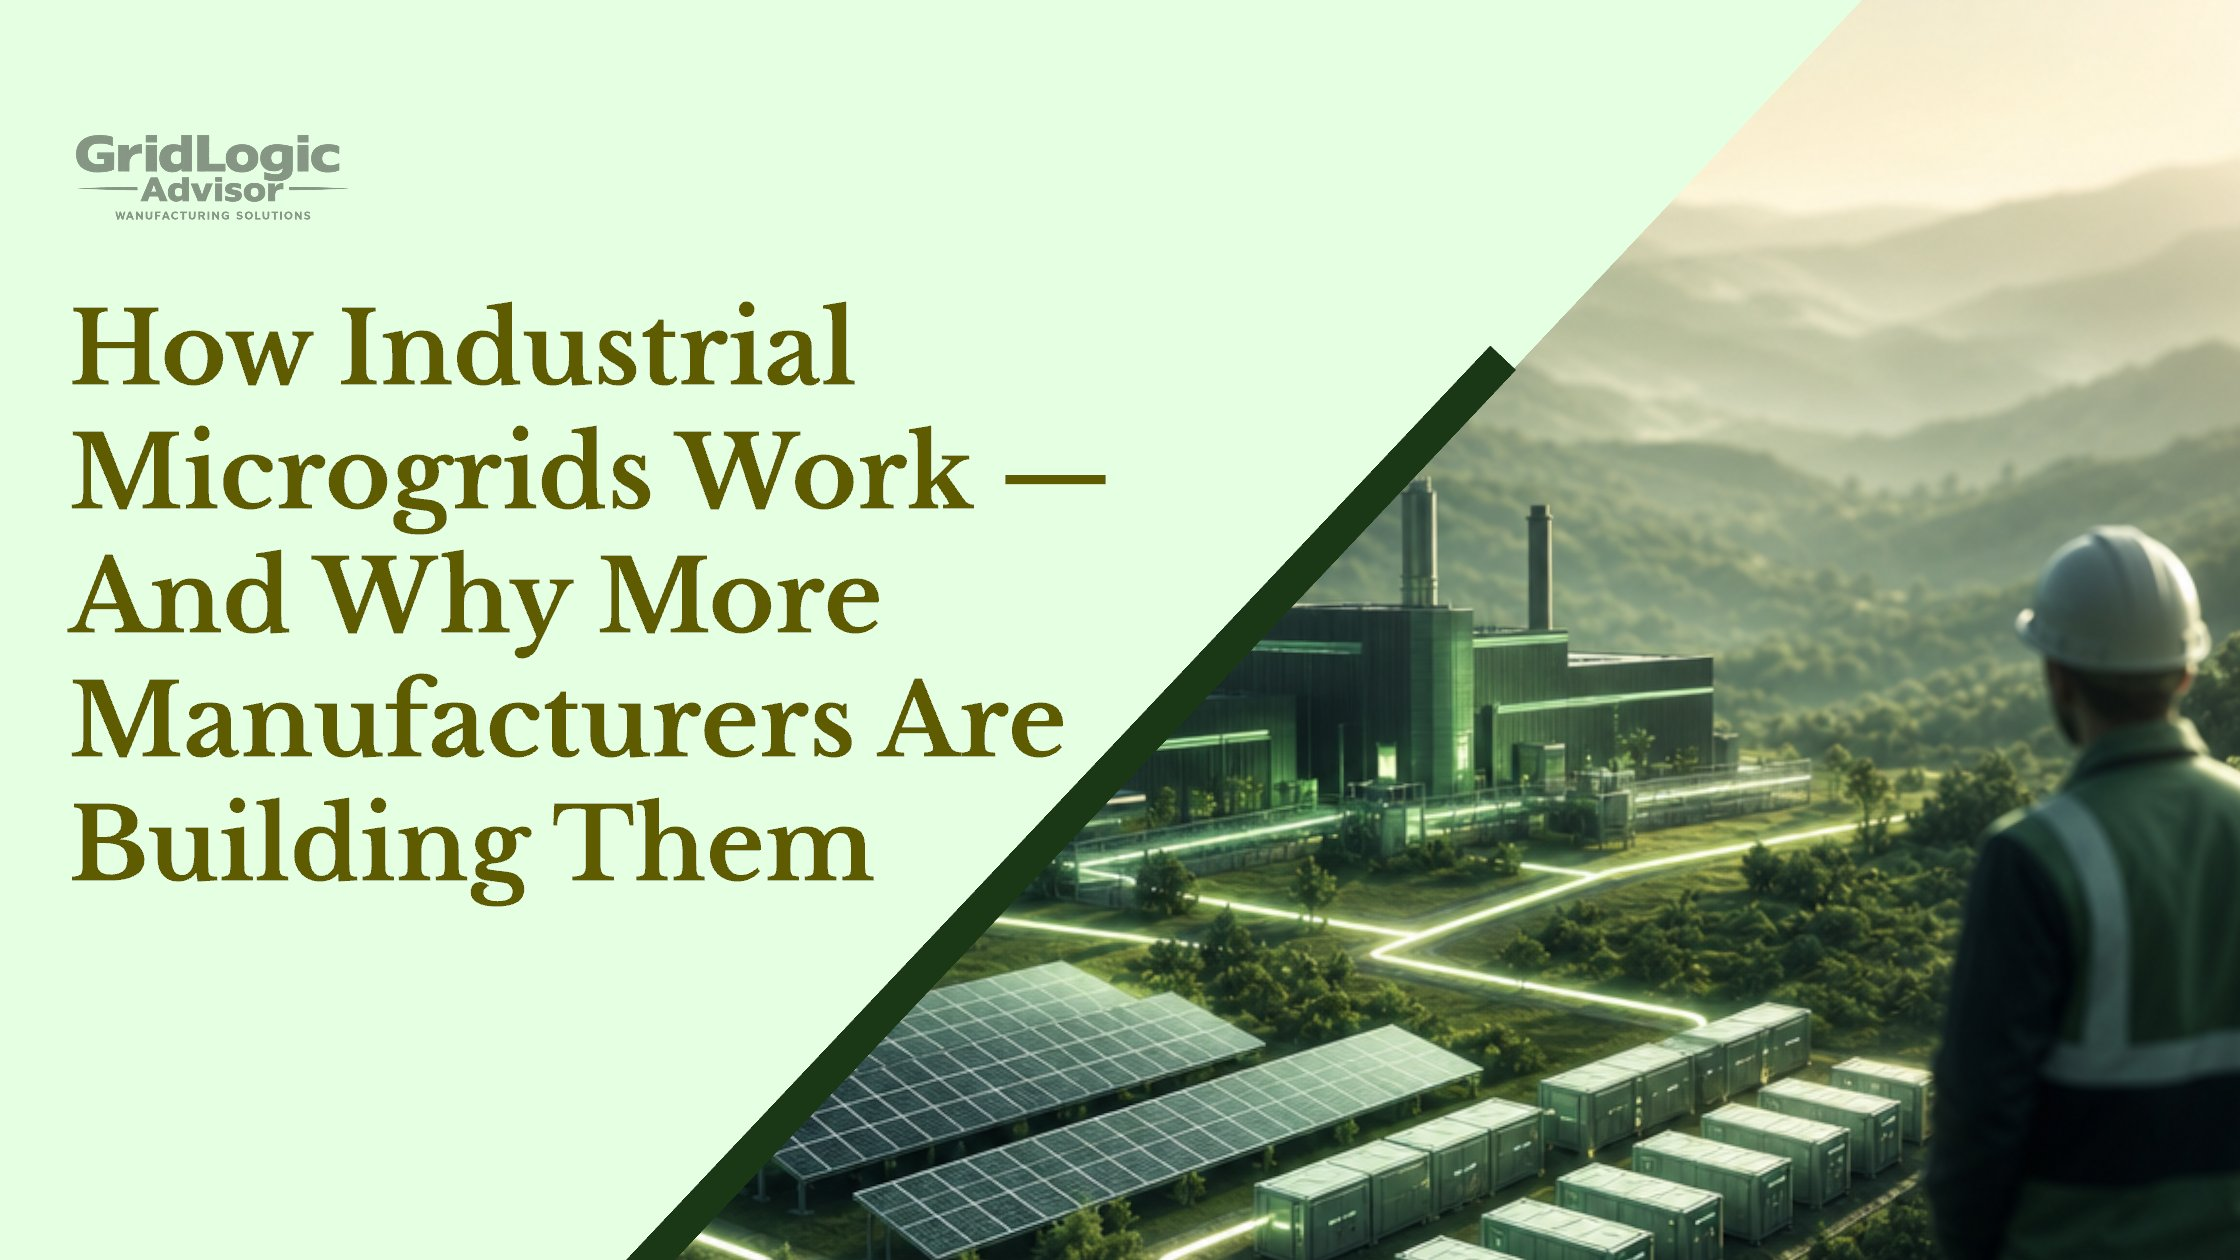
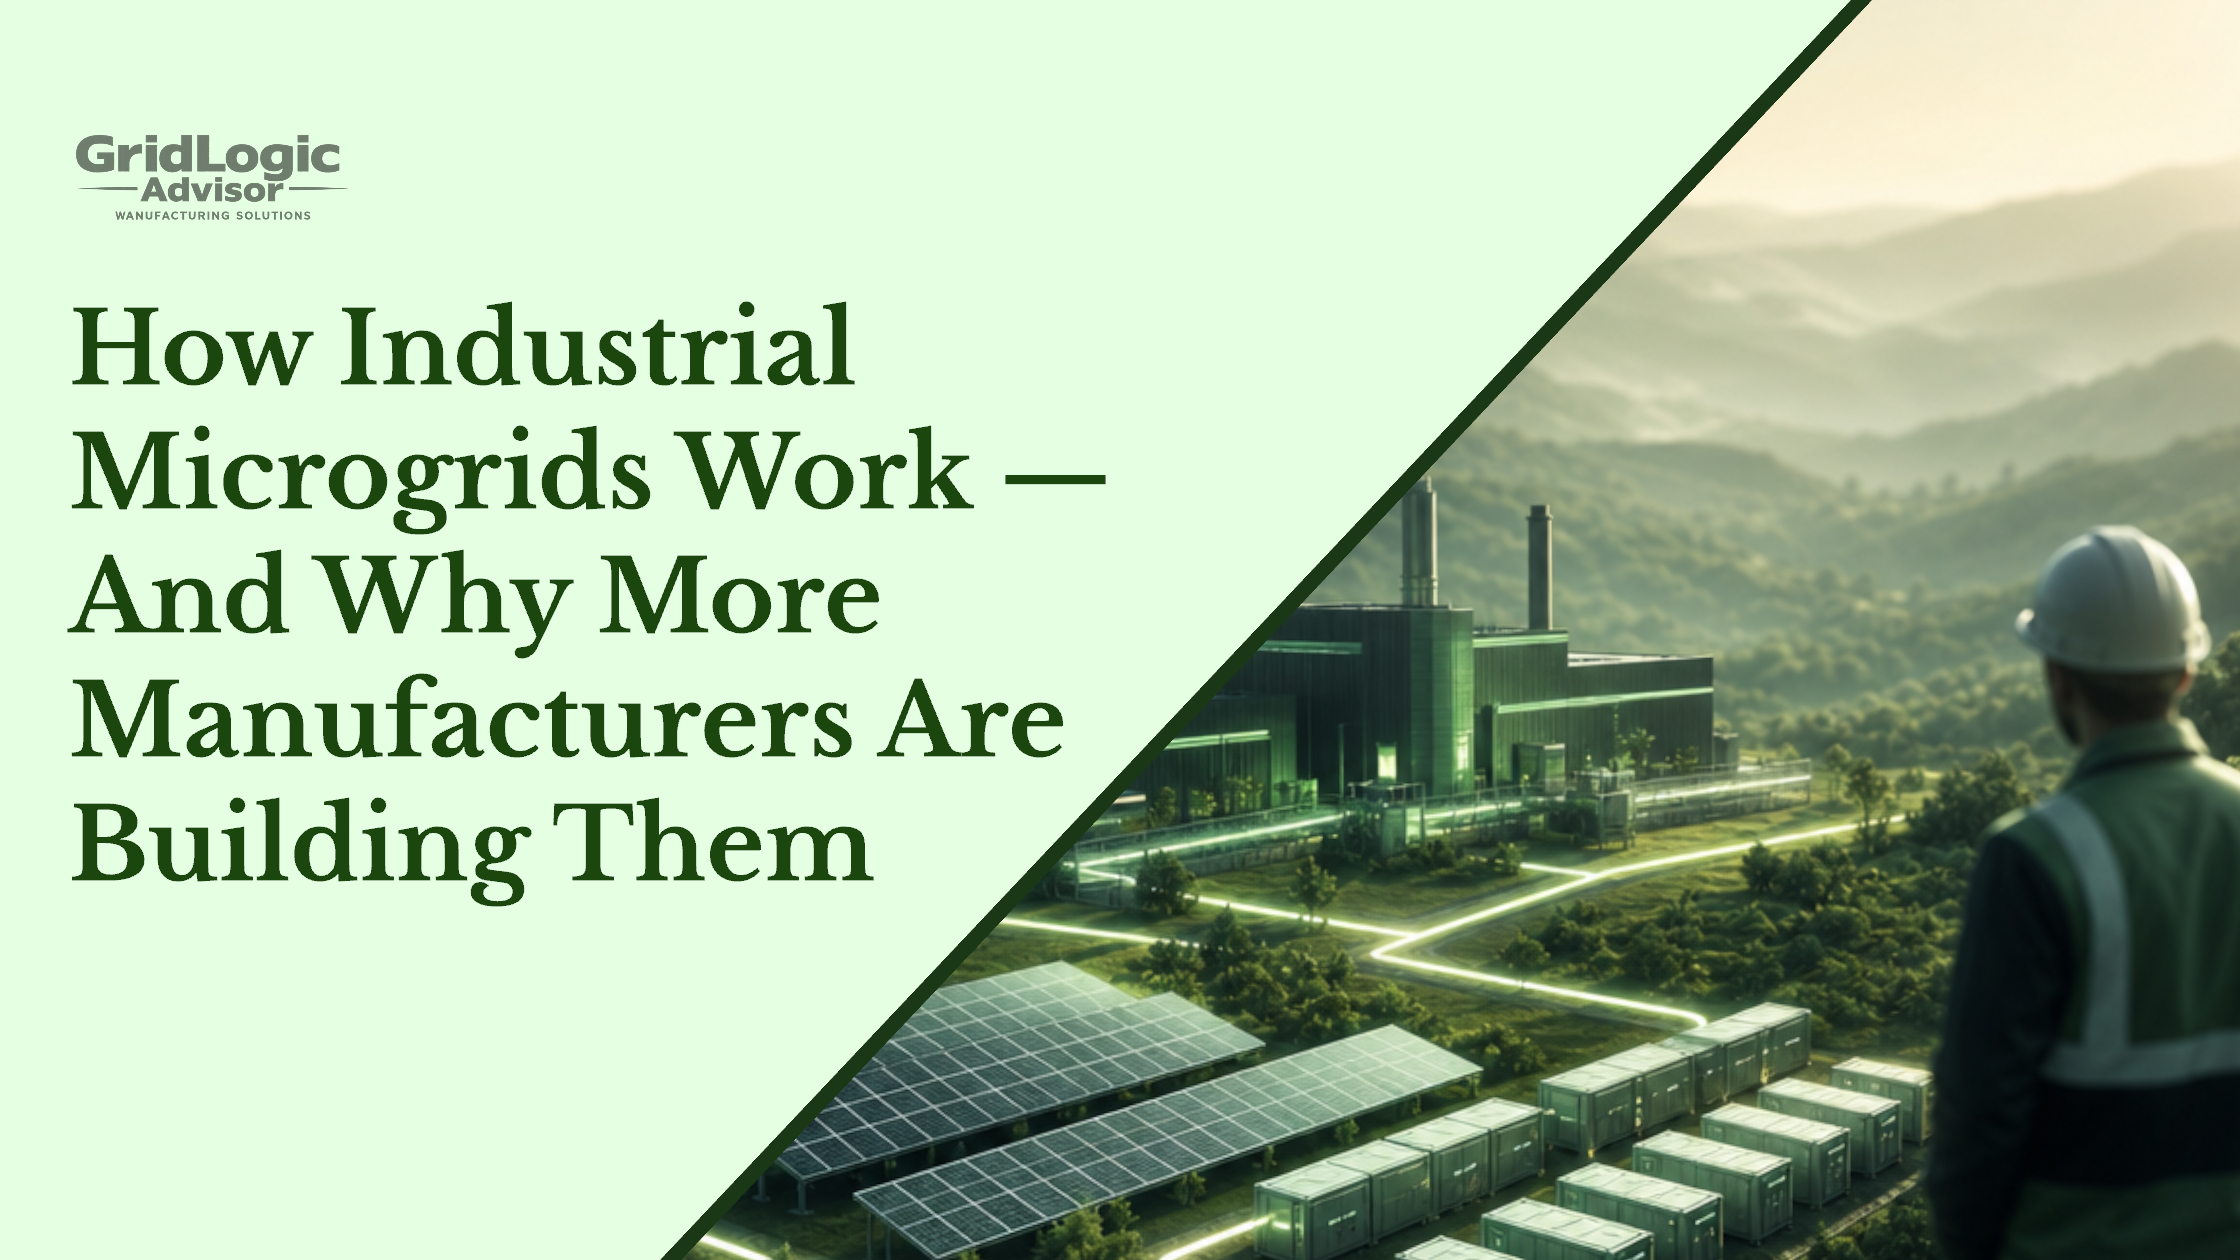
Add files via upload

diff --git a/index.html b/index.html
@@ -60,8 +60,12 @@
     margin-bottom: 16px;
   }
 
-  .greeting-btn-wrap {
+  .greeting-btn-row {
     margin-top: 10px;
+    display: flex;
+    justify-content: space-between;
+    align-items: center;
+    gap: 10px;
   }
 
   .greeting-btn {
@@ -79,10 +83,29 @@
 
   .greeting-btn:hover { background: #2d6040; }
 
+  .download-btn-top {
+    display: inline-block;
+    font-size: 0.8rem;
+    font-weight: 700;
+    letter-spacing: 0.06em;
+    text-transform: uppercase;
+    color: #3a7d4f;
+    text-decoration: none;
+    border: 1.5px solid #3a7d4f;
+    padding: 9px 20px;
+    transition: background 0.15s, color 0.15s;
+    cursor: pointer;
+    background: none;
+    font-family: Arial, Helvetica, sans-serif;
+  }
+
+  .download-btn-top:hover { background: #3a7d4f; color: #fff; }
+
   /* ── CARD ── */
   .card {
     background: #fff;
     padding: 52px 64px;
+  }
   }
 
   /* ── HEADER ── */
@@ -187,29 +210,13 @@
   .edu-school { font-size: 0.88rem; color: #555; }
   .edu-year { font-size: 0.85rem; color: #888; white-space: nowrap; }
 
-  .download-btn {
-    display: inline-block;
-    font-size: 0.8rem;
-    font-weight: 700;
-    letter-spacing: 0.06em;
-    text-transform: uppercase;
-    color: #3a7d4f;
-    text-decoration: none;
-    border: 1.5px solid #3a7d4f;
-    padding: 8px 20px;
-    transition: background 0.15s, color 0.15s;
-  }
-
-  .download-btn:hover { background: #3a7d4f; color: #fff; }
-
-  .download-row {
-    text-align: right;
-    margin-bottom: 24px;
-  }
+  @media (max-width: 600px) {
     .card { padding: 36px 24px; }
     .exp-meta { flex-direction: column; gap: 2px; }
+    .greeting-btn-row { flex-direction: column; align-items: flex-start; }
   }
 </style>
+<script src="https://cdnjs.cloudflare.com/ajax/libs/html2pdf.js/0.10.1/html2pdf.bundle.min.js"></script>
 </head>
 <body>
 
@@ -220,8 +227,9 @@
     <div class="callout">
       <span class="wiggle">👋</span> <span class="callout-label">Hi!</span> &nbsp;I heard you guys are hiring, and I thought I'd put together something more useful than a plain PDF. Below is my resume — and you can also check out a full content sample I put together to show what a real deliverable from me actually looks like.
     </div>
-    <div class="greeting-btn-wrap">
+    <div class="greeting-btn-row">
       <a href="blog.html" class="greeting-btn">View Sample Work &rarr;</a>
+      <button class="download-btn-top" onclick="downloadResume()">⬇ Download Resume</button>
     </div>
   </div>
 
@@ -234,7 +242,7 @@
       <p class="contacts">
         <a href="https://www.linkedin.com/in/joantonettesegador/" target="_blank">linkedin.com/in/joantonettesegador</a>
         <span class="sep">·</span>
-        joanton.segador@gmail.com
+        <a href="mailto:joanton.segador@gmail.com">joanton.segador@gmail.com</a>
         <br>
         SEO Portfolio: <a href="https://joanton.com/seo/" target="_blank">joanton.com/seo</a>
         <span class="sep">·</span>
@@ -243,10 +251,6 @@
     </div>
 
     <hr>
-
-    <div class="download-row">
-      <a href="resume.pdf" download="Jo_Antonette_Segador_Resume.pdf" class="download-btn">⬇ Download Resume</a>
-    </div>
 
     <div class="section">
       <p class="section-label">Profile</p>
@@ -379,7 +383,7 @@
       <div class="edu-row">
         <div>
           <p class="edu-degree">Bachelor of Science in Digital Illustration and Animation</p>
-          <p class="edu-school">Ateneo de Naga University, Naga City, Bicol</p>
+          <p class="edu-school">Ateneo de Naga University</p>
         </div>
         <span class="edu-year">March 2019</span>
       </div>
@@ -388,5 +392,18 @@
   </div><!-- /card -->
 </div><!-- /page-wrap -->
 
+<script>
+  function downloadResume() {
+    var card = document.querySelector('.card');
+    var opt = {
+      margin:       [10, 10, 10, 10],
+      filename:     'Jo_Antonette_Segador_Resume.pdf',
+      image:        { type: 'jpeg', quality: 0.98 },
+      html2canvas:  { scale: 2, useCORS: true },
+      jsPDF:        { unit: 'mm', format: 'a4', orientation: 'portrait' }
+    };
+    html2pdf().set(opt).from(card).save();
+  }
+</script>
 </body>
 </html>

diff --git a/blog.html b/blog.html
@@ -109,6 +109,7 @@
     text-transform: uppercase;
     color: #3a7d4f;
     margin-bottom: 8px;
+    margin-top: 28px;
   }
 
   .research-toggle {
@@ -135,10 +136,14 @@
     border-top: none;
     padding: 20px;
     background: #f5fbf7;
-    margin-bottom: 24px;
+    margin-bottom: 0;
   }
 
-  .research-body.open { display: block; }
+  .research-body.open { display: block; margin-bottom: 0; }
+
+  .card-gap {
+    height: 28px;
+  }
 
   .research-body h3 {
     font-size: 0.75rem;
@@ -525,6 +530,9 @@
     </table>
     <p class="note">All top results cover the same four pillars — what it is, how it works, why manufacturers use it, cost/ROI. Differentiation opportunity: plain-language clarity and AEO-optimized structure.</p>
   </div>
+
+  <!-- GAP -->
+  <div class="card-gap"></div>
 
   <!-- BLOG CARD -->
   <!-- HERO CAROUSEL -->
